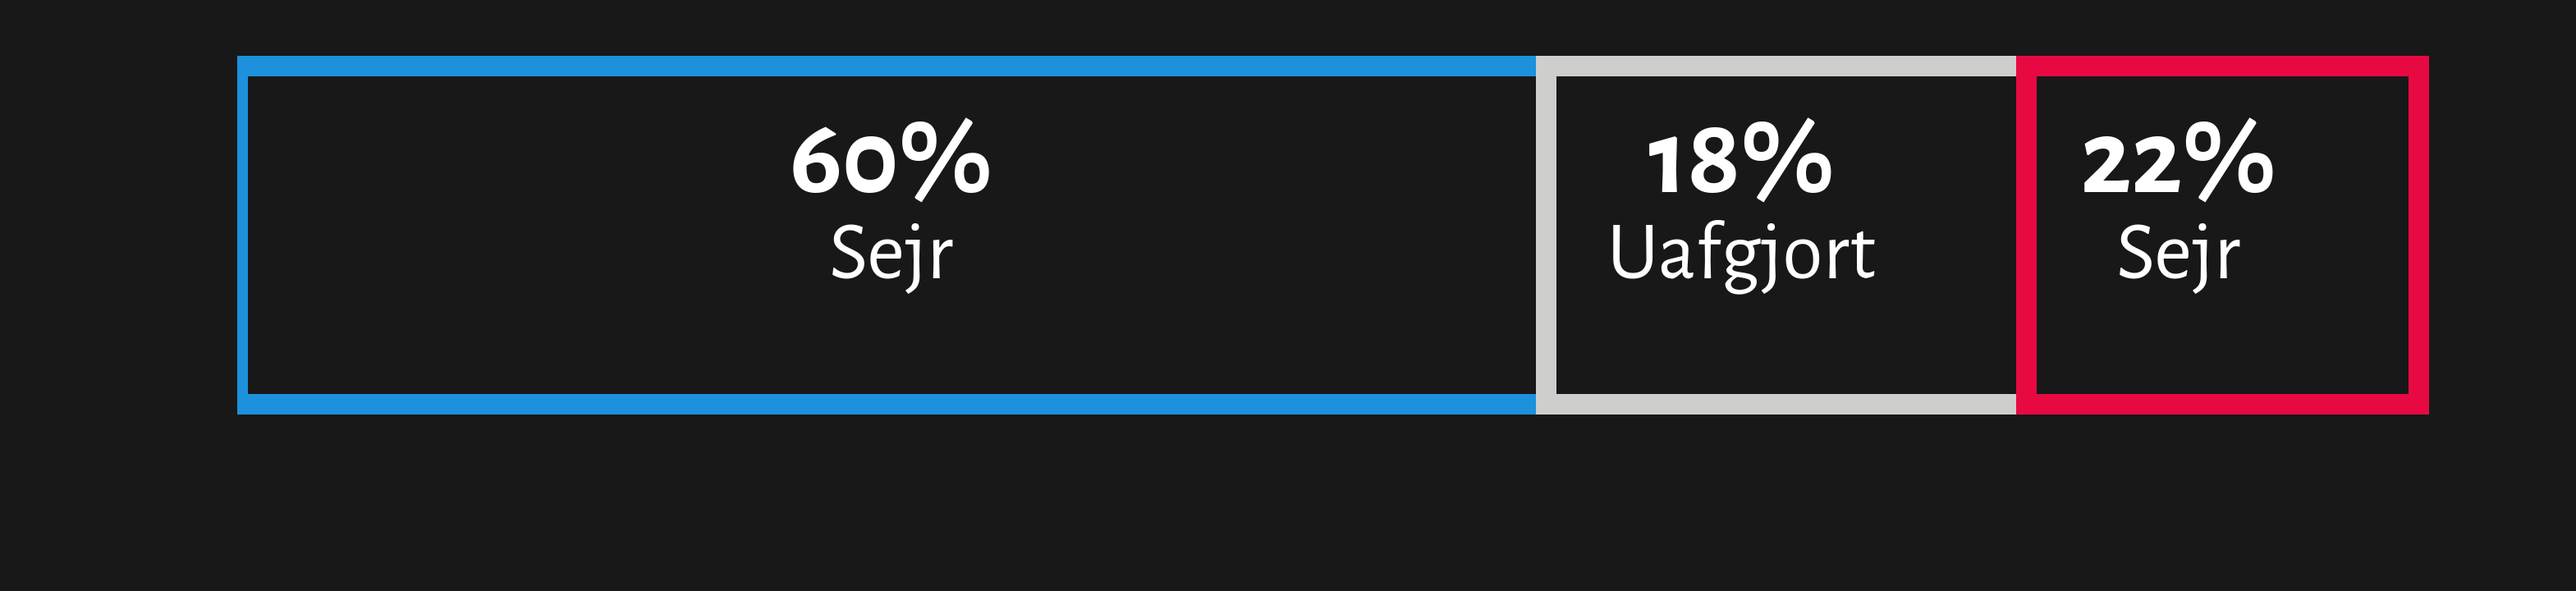
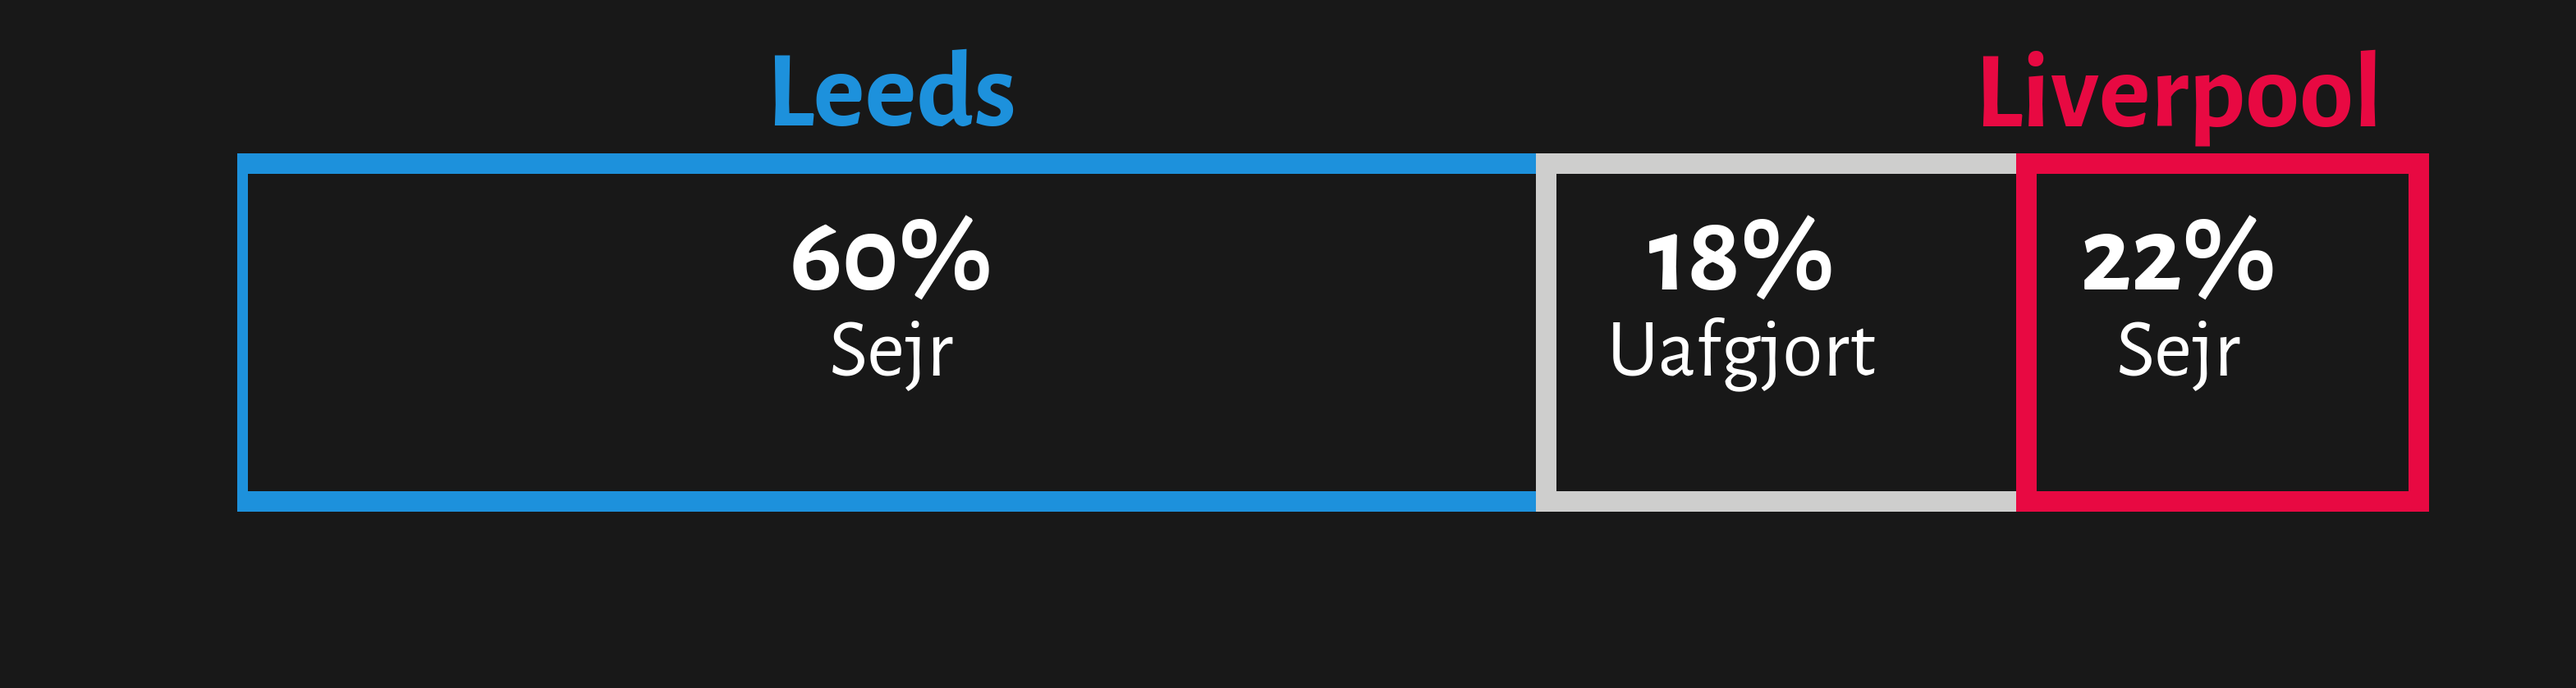
Update win prob viz and plot

Changed region(s): [[0.0937, 0.0611, 0.9681, 0.5806], [0.0937, 0.6417, 0.9681, 0.7639]]

diff --git a/win_probability_plot.py b/win_probability_plot.py
@@ -99,6 +99,14 @@ ax.text(x=home_prob+draw_prob+away_prob/2, y=0.6, s=f'{away_prob}%',
         color='w', ha='center', size=16, fontweight='bold')
 ax.text(x=home_prob+draw_prob+away_prob/2, y=0.40, s=f'Sejr',
         color='w', ha='center', size=12)
+# Home
+ax.text(x=home_prob/2, y=0.99,
+        s=f'{home_team}',
+        color=home_color, ha='center', size=16, fontweight='bold')
+
+ax.text(x=home_prob+draw_prob+away_prob/2, y=0.99,
+        s=f'{away_team}',
+        color=away_color, ha='center', size=16, fontweight='bold')
 
 #plt.savefig('output/win_probability_viz.png',
 #            dpi=600, bbox_inches='tight')
